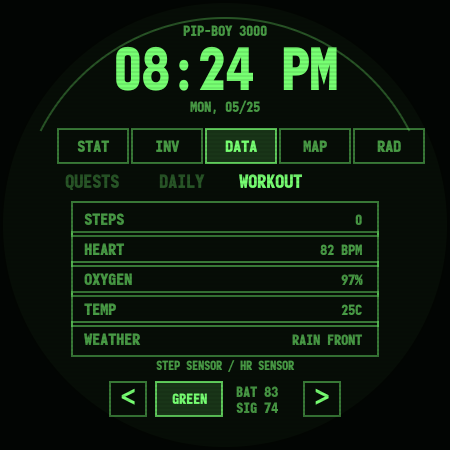
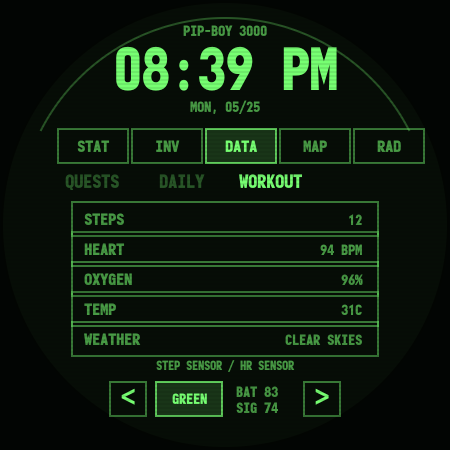
Show raw watch step counter in workout

diff --git a/watchface/watchface/src/main/java/com/megazegan/vaultwatch/face/TerminalActivity.java b/watchface/watchface/src/main/java/com/megazegan/vaultwatch/face/TerminalActivity.java
@@ -254,7 +254,6 @@ public class TerminalActivity extends Activity {
         private int uvIndex;
         private int nextWater;
         private long lastStatTick;
-        private float stepBaseline = -1f;
         private boolean sensorsRegistered;
         private String[] inventoryItems = new String[4];
         private String[] inventoryTypes = new String[4];
@@ -1005,10 +1004,7 @@ public class TerminalActivity extends Activity {
             if (type == Sensor.TYPE_HEART_RATE && event.values[0] > 0f) {
                 heartRate = Math.max(35, Math.min(220, Math.round(event.values[0])));
             } else if (type == Sensor.TYPE_STEP_COUNTER) {
-                if (stepBaseline < 0f) {
-                    stepBaseline = event.values[0];
-                }
-                steps = Math.max(0, Math.round(event.values[0] - stepBaseline));
+                steps = Math.max(0, Math.round(event.values[0]));
             } else if (type == Sensor.TYPE_STEP_DETECTOR) {
                 steps += Math.max(1, Math.round(event.values[0]));
             } else if (type == Sensor.TYPE_AMBIENT_TEMPERATURE) {
